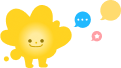
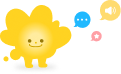
💄 : Menu 아이콘 잘림 수정

diff --git a/src/screens/talkTalkScreen/components/Menu.jsx b/src/screens/talkTalkScreen/components/Menu.jsx
@@ -3,8 +3,8 @@ import { StyleSheet, View } from "react-native";
 import { useNavigation } from "@react-navigation/native";
 import { SentenceModal } from "../../sentenceScreen/components/SentenceModal";
 
-import STAR from "../../../assets/images/talktalk/menu_star.png";
-import PRAC from "../../../assets/images/talktalk/menu_prac.png";
+import MENU_STAR from "../../../assets/images/talktalk/menu_star.png";
+import MENU_PRAC from "../../../assets/images/talktalk/menu_prac.png";
 import { useState } from "react";
 
 export const Menu = () => {
@@ -16,13 +16,13 @@ export const Menu = () => {
             <MenuBox 
                 width = { 165.67 }
                 title = "즐겨찾기 문장들"
-                icon = { STAR }
+                icon = { MENU_STAR }
                 onPress = { () => setModalOpen(true) }
             />
             <MenuBox 
                 width = { 148.33 }
                 title = "말하기 연습"
-                icon = { PRAC }
+                icon = { MENU_PRAC }
                 onPress = { () => navigation.navigate("Practice") }
             />
 

diff --git a/src/screens/talkTalkScreen/components/MenuBox.jsx b/src/screens/talkTalkScreen/components/MenuBox.jsx
@@ -14,6 +14,7 @@ export const MenuBox = ({ width, title, icon, onPress }) => {
             <Image 
                 source = { icon }
                 style = { styles.iconImage }
+                resizeMode = "contain"
             />
         </Box>
     )
